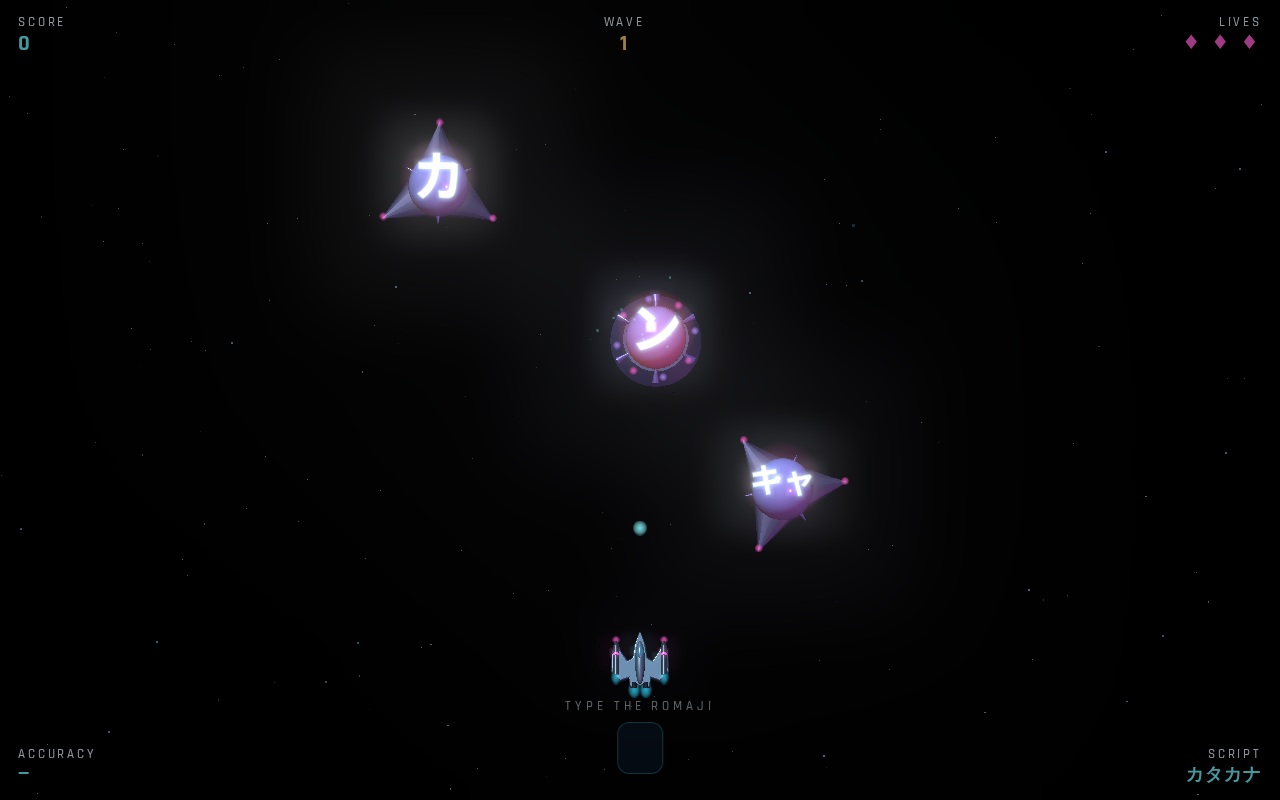
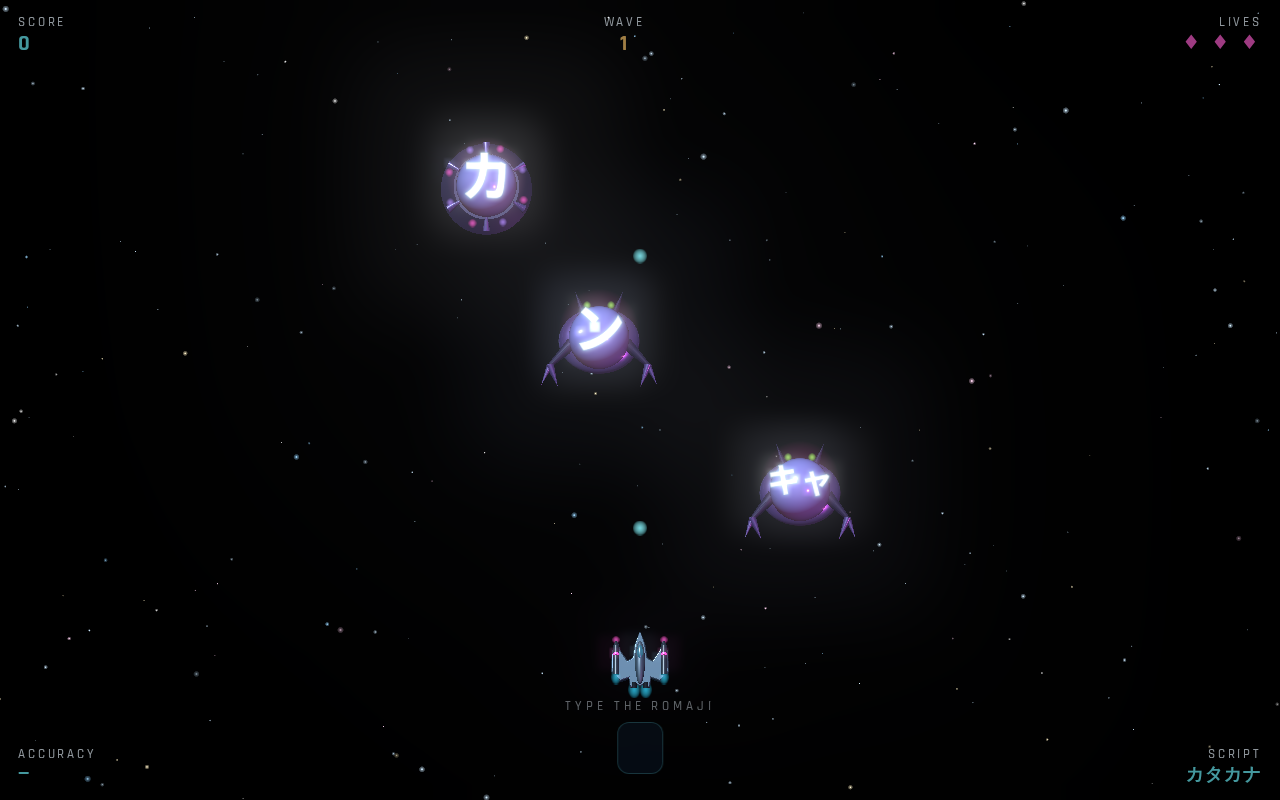
Make the background stars visible
Stars were sized in device pixels with depth attenuation, so they came out
~0.4-3px (sub-pixel on retina/phones), and their twinkle dipped below zero
alpha for part of every cycle. Now they're sized in CSS pixels via a pixel
ratio uniform, larger overall with a few standout bright ones, drawn with a
crisp core plus soft glow, twinkle between 24% and 100%, and carry a per-star
tint (mostly pale blue, some white/pink/warm) for depth. Slightly denser too.

Claude-Session: https://claude.ai/code/session_019cpcKUdB5Yisp8d3dSsc5r

Changed region(s): [[0.2812, 0.1562, 0.4375, 0.3125], [0.4062, 0.3438, 0.5625, 0.5], [0.5625, 0.5312, 0.6875, 0.6875]]

diff --git a/index.html b/index.html
@@ -666,43 +666,52 @@ const GLOW_TEX = radialTexture('rgba(255,255,255,0.95)', 'rgba(255,255,255,0)');
 
 /* ---------- starfield ---------- */
 // A custom shader instead of PointsMaterial so each star can twinkle on its
-// own phase (aPhase/aSize, driven by uTime) rather than the whole field
-// fading in lockstep.
+// own phase and carry its own tint. Sized in CSS pixels (uPixelRatio) — sized
+// in device pixels they shrank to sub-pixel specks on phones and retina.
 const starGeo = new THREE.BufferGeometry();
 {
-  const N = 900, pos = new Float32Array(N * 3), phase = new Float32Array(N), size = new Float32Array(N);
+  const N = 1100, pos = new Float32Array(N * 3), phase = new Float32Array(N),
+    size = new Float32Array(N), col = new Float32Array(N * 3);
+  const tints = [new THREE.Color(0xcfeaff), new THREE.Color(0xffffff), new THREE.Color(0x9fd8ff),
+    new THREE.Color(0xffd6f2), new THREE.Color(0xfff1c9)];
   for (let i = 0; i < N; i++){
     pos[i * 3]     = (Math.random() - 0.5) * 340;
     pos[i * 3 + 1] = (Math.random() - 0.5) * 240;
     pos[i * 3 + 2] = -60 - Math.random() * 140;
     phase[i] = Math.random() * Math.PI * 2;
-    size[i] = 0.55 + Math.random() * Math.random() * 2.2; // squared bias: mostly small, a few standout bright ones
+    size[i] = 1.4 + Math.pow(Math.random(), 3) * 5.5; // mostly small, a few standout bright ones
+    tints[Math.random() < 0.55 ? 0 : 1 + Math.floor(Math.random() * 4)].toArray(col, i * 3);
   }
   starGeo.setAttribute('position', new THREE.BufferAttribute(pos, 3));
   starGeo.setAttribute('aPhase', new THREE.BufferAttribute(phase, 1));
   starGeo.setAttribute('aSize', new THREE.BufferAttribute(size, 1));
+  starGeo.setAttribute('aColor', new THREE.BufferAttribute(col, 3));
 }
 const starMat = new THREE.ShaderMaterial({
-  uniforms: { uTime: { value: 0 }, map: { value: GLOW_TEX }, color: { value: new THREE.Color(0x9fd8ff) } },
+  uniforms: { uTime: { value: 0 }, uPixelRatio: { value: Math.min(devicePixelRatio, 2) } },
   vertexShader: `
     attribute float aPhase;
     attribute float aSize;
+    attribute vec3 aColor;
     uniform float uTime;
+    uniform float uPixelRatio;
     varying float vTwinkle;
+    varying vec3 vColor;
     void main(){
-      vTwinkle = 0.45 + 0.55 * sin(uTime * 1.4 + aPhase);
-      vec4 mvPosition = modelViewMatrix * vec4(position, 1.0);
-      gl_PointSize = aSize * (260.0 / -mvPosition.z);
-      gl_Position = projectionMatrix * mvPosition;
+      vTwinkle = 0.62 + 0.38 * sin(uTime * 1.4 + aPhase);
+      vColor = aColor;
+      gl_PointSize = aSize * uPixelRatio;
+      gl_Position = projectionMatrix * modelViewMatrix * vec4(position, 1.0);
     }
   `,
   fragmentShader: `
-    uniform sampler2D map;
-    uniform vec3 color;
     varying float vTwinkle;
+    varying vec3 vColor;
     void main(){
-      vec4 tex = texture2D(map, gl_PointCoord);
-      gl_FragColor = vec4(color, tex.a * vTwinkle * 0.75);
+      float d = length(gl_PointCoord - 0.5) * 2.0;
+      float core = smoothstep(0.45, 0.0, d);
+      float glow = clamp(1.0 - d, 0.0, 1.0) * 0.35;
+      gl_FragColor = vec4(vColor, (core + glow) * vTwinkle);
     }
   `,
   transparent: true, depthWrite: false, blending: THREE.AdditiveBlending,
